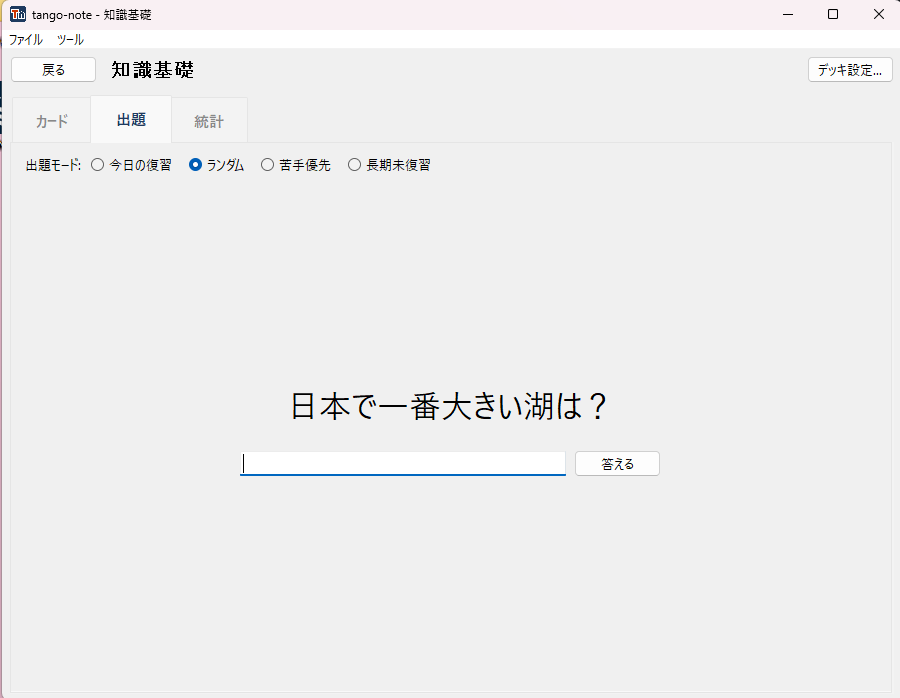
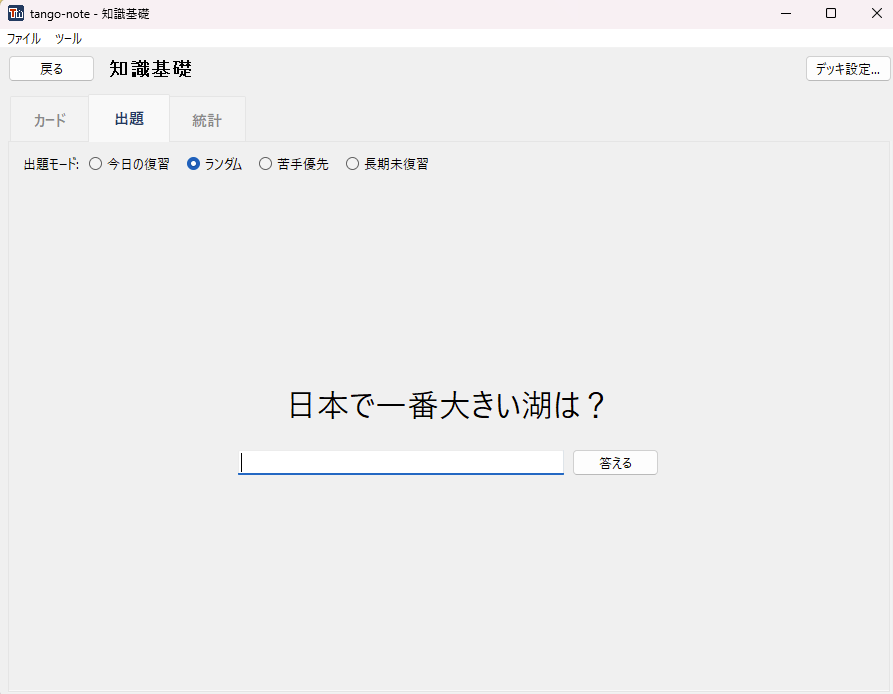
Tango Note ヘルプを v2.6.0 対応へ更新
- keyboard.md 新規追加（order 6）、faq.md を order 7 に変更（ナビ7件）
- card-types.md / srs.md を v2.6.0 版に差し替え（8種カードタイプ・閲覧モード等）
- ヘルプ画像を追加（並べ替え・数値・TeX）、card-written を更新
- csv-import.md の記法リファレンスを README(v2.6.0) 節へ全面置換
  （生ファイル取得＋スクリプト抽出、セクション7422バイト・小見出し9本を検証）
- 見出しの多いページ（h2が5本以上）にページ内目次を追加。
  Astro の render() headings（安定 slug）を用い、日本語見出しのアンカーも解決

diff --git a/src/content/help/csv-import.md b/src/content/help/csv-import.md
@@ -8,7 +8,7 @@ order: 4
 
 ## 記法リファレンス
 
-以下は Tango Note リポジトリの README（v2.1.1）「記法リファレンス」節の転載です。
+以下は Tango Note リポジトリの README（v2.6.0）「記法リファレンス」節の転載です。
 
 ### type 列の値 (大文字小文字・全角半角は区別しない)
 
@@ -19,6 +19,9 @@ order: 4
 | 選択式 | `choice`, `c`, `選択`, `択一`, `選択式` |
 | 穴埋め | `cloze`, `穴埋め`, `空欄` |
 | 記述 | `written`, `記述`, `記入` |
+| 並べ替え | `ordering`, `並べ替え`, `並び替え` |
+| 数値 | `numeric`, `数値`, `数値計算` (`number`・`数` は不可 — 別の意味の列を誤認しないため) |
+| TeX | `tex`, `TeX`, `数式` |
 
 解釈できない値の行はスキップされ、行番号付きで警告される。ただし **type 列の値がどれも上の表に一致しない場合は列ごと無視され、全行が基本タイプとして取り込まれる** (品詞など別の意味の "type" 列を持つ既存 CSV の互換のため)。
 
@@ -30,7 +33,10 @@ order: 4
 | ○× | 問題文 | ○/× 記号 (下表) | — |
 | 選択式 | 問題文。**正解の個数を示したい場合はここに書く** (出題画面は個数を自動表示しないため。書かなければ「全て選べ」型になる) | 正解番号 (1始まり, 複数は `1,3` のようにカンマ/スペース区切り, 全角可) | `option1`..`option8` に選択肢 (空セルは詰められる。**空セル以降の番号を正解に指定した行はエラー** — 暗黙の番号補正はしない) |
 | 穴埋め | `[[...]]` を含む本文 | (使わない) | `[[...]]` がない行はスキップ |
+| 並べ替え | 問題文 | 項目を**正しい順**に `|` 区切り (例: `起床\|朝食\|出勤`) | 2〜8 個。`option` 列は使わない |
 | 記述 | 問題文 | 正解。**複数の正解は `\|` 区切り** (例: `東京\|とうきょう`)。`\|` そのものを含む正解が必要な場合はアプリ内で手入力する | — |
+| 数値 | 問題文 | 値。任意で**空白のあとに単位** (例: `3.00e8 m/s`, 単位なしは `9.8` だけ)。指数表記の有効数字は保持される | 許容誤差・有効数字は CSV では持たず、アプリで設定する |
+| TeX | 問題文 | TeX ソースそのもの (例: `\frac{1}{2}`)。`\|` 分割はしない。matplotlib mathtext 互換の TeX | — |
 
 ### ○× 記号として受け入れる値 (NFKC 正規化後に判定)
 
@@ -38,15 +44,51 @@ order: 4
 |---|---|
 | **偽 (×)** | `×` `✕` `x` `X` `false` `f` `0` `誤` `偽` `いいえ` `no` `n` |
 
+### 並べ替えの記法 (v2.4.0)
+
+`answer` 列に項目を**正しい順**で `|` 区切りに並べる (記述タイプと同じ
+記法の再利用)。`option` 列は使わない。
+
+```
+type,question,answer,notes
+ordering,次の手順を正しい順に並べよ,手を洗う|材料を切る|火にかける,
+```
+
+- 項目は 2〜8 個。出題時にシャッフルされ、学習者が正しい順に選び直す。
+- **項目自体に `|` は含められない** (記述タイプと同じ制限)。含めたい場合は
+  GUI のカード編集ダイアログで直接入力する。
+- 同じ文字列の項目が複数あってもよい (採点は表示位置ではなく元の順序で
+  行うため)。
+
 ### `[[...]]` 記法 (穴埋め)
 
 - `[[隠す部分]]` が空欄になる。1 枚のカードに複数置ける (出題時は ［　1　］ のように連番表示)。
 - `\[[` はエスケープでリテラルの `[[` になる。
 - 閉じられていない `[[`・空の `[[]]`・行をまたぐ `[[...]]` はそのままテキスト表示 (エラーにならない — `$` 数式と同じ寛容ルール)。
+- **入力モード (v2.5.0、デッキ単位)**: デッキ設定で有効にすると、出題画面が空欄ごとに入力欄を出し、**全空欄が記述の照合ルールで一致したときだけ正解** (部分点なし)。惜しい場合は「実は正解」で訂正できる。OFF のときは従来どおり開示 + 自己申告。
 
 ### 記述タイプの照合ルール (v2.1 固定)
 
 入力と正解の両方を「前後空白除去 + Unicode NFKC 正規化 + 大文字小文字無視」してから完全一致で判定する。全角半角の揺れ (`Ｔｏｋｙｏ` と `tokyo` など) は自動で吸収される。惜しい表記揺れで不正解になった場合は「実は正解」ボタンで訂正でき、SRS も正答として記録し直される。
+
+- **誤字許容 (v2.5.0、デッキ単位・既定 OFF)**: デッキ設定で有効にすると、正解のいずれかと**編集距離 1 (1 文字の挿入・削除・置換)** 以内の入力も正解として受け入れる (空入力は対象外)。**重要な用語・正確な表記が必要な問題には非推奨** — 1 文字の違いで誤答が通ってしまうため。
+
+### 数値タイプの記法・採点 (v2.5.0)
+
+答えは**文字列**として保存する (`3.00e8` の有効数字を残すため)。符号・小数点・指数表記 (`3.00e8`, `1.2e-3`) を受け付け、それ以外 (語・範囲・埋め込み単位) は「数値として読めない」と扱う。
+
+- **値の一致**: 許容誤差なしは `math.isclose` (相対 1e-9・絶対 1e-12) で、`56` / `56.0` / `5.6e1` は同じ値として一致する。**相対許容誤差**を設定すると `|入力 − 正解| / |正解| ≤ 許容誤差` で判定する (正解が 0 のときは絶対量 `|入力| ≤ 許容誤差`)。
+- **単位**: 設定した場合のみ照合し、前後空白を除いた**文字列完全一致** (意味的同一視はしない — `m/s` と `メートル毎秒` は別)。出題画面は単位欄を出す。
+- **有効数字**: 設定した場合のみ、入力の桁数と一致するか調べる (先頭 0 は数えない・末尾 0 は小数点か指数があるときだけ数える・間の 0 は常に数える)。
+- 採点は 値 → 単位 → 有効数字 の順で、最初に外れた理由を返す (値は正しいが単位/桁数が違う、など)。惜しい誤りは出題画面が理由を表示し、「実は正解」で訂正もできる。
+
+### TeX タイプの記法・採点 (v2.5.0)
+
+答えは TeX ソースをそのまま保存する。編集ダイアログと出題画面に **mathtext のライブプレビュー**が付く。採点は**自己申告**を基本とし、**正規化して完全一致したときだけ自動で正解**にする (自動で不正解にはしない)。
+
+- 正規化は保守的で、**空白の除去**と **`\dfrac` / `\tfrac` → `\frac`** の畳み込みのみ。波括弧 (`x^{2}` と `x^2`) や `\left…\right` は区別したまま (過度な同一視をしない)。
+- 一致しなかった場合は正答と自分の答えを数式で並べて表示し、`y`/`n` で自己申告する。
+- 表示は常に数式レンダリング (デッキの「数式レンダリング」設定に関わらず)。matplotlib mathtext 互換の TeX を使う。
 
 ### Markdown / 数式の入れ子について
 

diff --git a/src/content/help/srs.md b/src/content/help/srs.md
@@ -8,16 +8,18 @@ order: 5
 
 記憶は「忘れかけた頃に思い出す」ときに最も強くなります。覚えた直後に何度も見返すのは、実は効率が良くありません。
 
-Tango Note は正解のたびに次の出題を先送りします（**1日 → 3日 → 7日 → 14日 → 30日**）。間違えたカードは翌日また出てきます。だから「今日の分」は少なくても、それで正しいのです。
+Tango Note は正解のたびに次の出題を先送りします（**1日 → 3日 → 7日 → 14日 → 30日**）。間違えたカードは、その日のうちにもう一度出てきます。だから「今日の分」は少なくても、それで正しいのです。
 
 ## 正解・不正解ボタンの意味
 
 ［正解］［不正解］は、テストの点数ではなく **次にいつ出題するかの指示** です。
 
 - ［正解］を押すと、そのカードの次回出題は間隔が一段延びます
-- ［不正解］を押すと、翌日もう一度出てきます
+- ［不正解］を押すと、その日のうちにもう一度出てきます
 
 思い出せたか怪しいときに［正解］を押すと、まだ定着していないカードが長く出てこなくなってしまいます。正直に押すほど、アプリはあなたの苦手を正確に覚えます。
+
+なお、どのカードタイプで解いても、また自動採点でも自己申告でも、記録される復習スケジュールは同じしくみです。
 
 ## 「今日の復習は完了です！」が出たら
 
@@ -25,8 +27,20 @@ Tango Note は正解のたびに次の出題を先送りします（**1日 → 3
 
 ## 新しいカードが少しずつしか出ないのはなぜ？
 
-「今日の復習」に混ざる未学習カードの数には、1日あたりの上限があります（設定の「1日の新規カード上限」で変更できます）。CSV などで大量に取り込んだ直後に、復習が一度にあふれて挫折するのを防ぐためのしくみです。
+「今日の復習」に混ざる未学習カードの数には、1日あたりの上限があります（既定は20枚。設定の「1日の新規カード上限」で変更できます）。CSV などで大量に取り込んだ直後に、復習が一度にあふれて挫折するのを防ぐためのしくみです。
 
 ## 苦手なカードだけ集中したいとき
 
 出題モードを「苦手優先」に切り替えると、正答率の低いカードから出題されます。ふだんの「今日の復習」と使い分けてください。
+
+## 採点せずに読み流したいとき（閲覧モード）
+
+試験前にざっと目を通したいときや、内容を確認したいだけのときは、「閲覧」タブを使います。全カードを自由にめくって読み流せて、**統計にも復習スケジュールにも一切影響しません**。
+
+前へ・次へ・めくる操作のほか、順番どおりに読むかシャッフルするかも切り替えられます。
+
+## 復習の対象にしないデッキを作る
+
+条文集や資料集のように「覚えるためではなく、読むために置いておく」デッキもあります。その場合は、デッキ設定の「閲覧専用（SRS除外）」をオンにしてください。そのデッキは「今日の復習」の対象から外れます。
+
+なお、除外してもデッキが使えなくなるわけではありません。「ランダム」など他の出題モードでは、これまでどおり出題も採点もできます。

diff --git a/src/content/help/keyboard.md b/src/content/help/keyboard.md
@@ -1,0 +1,35 @@
+---
+title: "キーボード操作"
+description: "出題画面はマウスを使わずキーボードだけで進められます。使えるキーの一覧です。"
+order: 6
+---
+
+出題画面は、マウスを使わずキーボードだけで進められます。たくさんのカードを続けて解くときは、こちらのほうが速く回せます。
+
+**画面に出ているボタンが、そのまま「いま押せるキー」です。** ボタンのラベルにキーが書かれているので（「正解 (y)」「確定 (Enter)」など）、覚えていなくても画面を見れば分かります。
+
+## 使えるキー
+
+| キー | できること |
+|---|---|
+| `y` / `n` | 二択の決定（自己申告の正解・不正解、○×の ○・×） |
+| `1`〜`8` | 選択肢や並べ替えの項目を、**画面に表示されている番号**で選ぶ |
+| `Enter` | 確定する／次へ進む |
+| `Space` | 答えを表示する（自分で正解・不正解を申告するタイプのみ） |
+| `c` | 「実は正解」（記述式の判定を訂正する） |
+| `Backspace` | 直前の選択を取り消す（複数選択・並べ替え） |
+
+このほか、`1` `2` を `y` `n` の代わりに、`o` `x` を ○ × の代わりに使うこともできます（ボタンには表示されません）。
+
+## 記述式で答えを入力しているとき
+
+記述式の入力欄に文字を打っている間は、**文字キーはそのまま文字として入力されます**（`c` と打てば「c」が入力されます）。
+
+このとき働くのは `Enter`（＝答える）だけです。採点が終わって入力欄から離れると、`c`（実は正解）や `Enter`（次へ）が使えるようになります。
+
+## キーが効かないとき
+
+次の場合、キーボード操作は働きません。
+
+- 検索欄など、出題以外の入力欄にカーソルがあるとき
+- 「出題」タブ以外の画面を開いているとき

diff --git a/src/content/help/faq.md b/src/content/help/faq.md
@@ -1,7 +1,7 @@
 ---
 title: "よくある質問"
 description: "インストール時の警告、データの保存場所、バックアップなどの疑問に答えます。"
-order: 6
+order: 7
 ---
 
 ## 「Windows によって PC が保護されました」と表示されます
